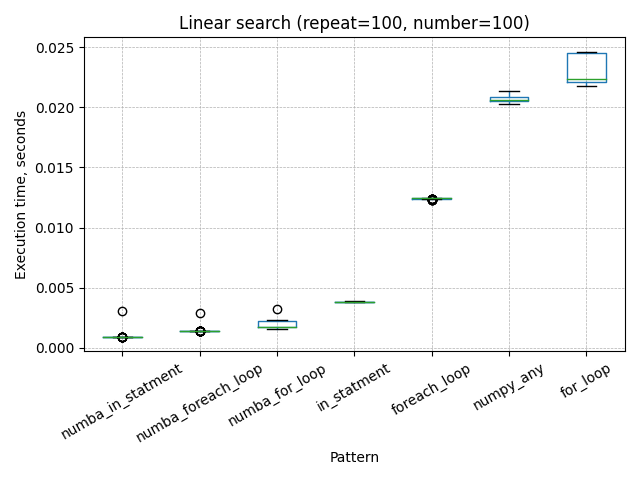
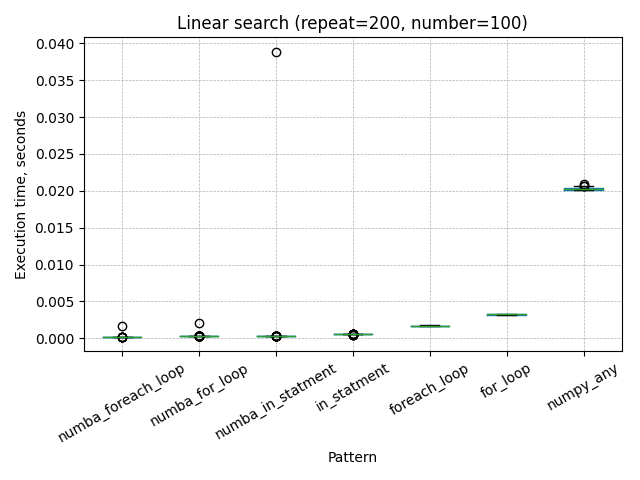
switch case and binary tree benchmark was added

diff --git a/benchmarks/python/switch_case.py b/benchmarks/python/switch_case.py
@@ -1,0 +1,97 @@
+import random
+from enum import Enum, IntEnum
+
+class Ticker(IntEnum):
+    AAPL:int = 143
+    MSFT = 257
+    GOOG = 95
+    AMZN = 91
+    TSLA = 157
+    NVDA = 176
+    TSM = 80
+    TCEHY = 41
+    META = 122
+
+def match_case(value: Ticker):
+    match value:
+      case Ticker.AAPL:
+        return '000'
+      case Ticker.MSFT:
+        return '001'
+      case Ticker.GOOG:
+        return '010'
+      case Ticker.AMZN:
+        return '011'
+      case Ticker.TSLA:
+        return '100'
+      case Ticker.NVDA:
+        return '101'
+      case Ticker.TSM:
+        return '110'
+      case Ticker.TCEHY:
+        return '111'
+      case Ticker.META:
+        return '1000'
+      case _:
+        return 'NA'
+
+def if_else(value: Ticker):
+    if value == Ticker.AAPL:
+        return '000'
+    elif value == Ticker.MSFT:
+        return '001'
+    elif value ==  Ticker.GOOG:
+        return '010'
+    elif value ==  Ticker.AMZN:
+        return '011'
+    elif value ==  Ticker.TSLA:
+        return '100'
+    elif value ==  Ticker.NVDA:
+        return '101'
+    elif value ==  Ticker.TSM:
+        return '110'
+    elif value ==  Ticker.TCEHY:
+        return '111'
+    elif value ==  Ticker.META:
+        return '1000'
+    else:
+        return 'NA'
+
+pre_dict = {
+    Ticker.AAPL: lambda: '000',
+    Ticker.MSFT: lambda: '001',
+    Ticker.GOOG: lambda: '010',
+    Ticker.AMZN: lambda: '011',
+    Ticker.TSLA: lambda: '100',
+    Ticker.NVDA: lambda: '101',
+    Ticker.TSM: lambda: '110',
+    Ticker.TCEHY: lambda: '111',
+    Ticker.META: lambda: '1000'
+}
+
+def dict_case(dictionary: dict, value: Ticker):
+    return dictionary.get(value, lambda: 'NA')()
+
+randomlist = random.sample(range(40, 200), 100)
+
+def func_a()->None:
+    for i in randomlist:
+        match_case(i)
+    
+def func_b()->None:
+    for i in randomlist:
+        if_else(i)
+
+def func_c()->None:
+    for i in randomlist:
+        dict_case(pre_dict, i)
+
+if __name__ == '__main__':
+    from myprofiler.myprofiler import do_profile
+    do_profile(
+        'Switch case', (
+            ('switch_case', 'func_a'),
+            ('if_else', 'func_b'),
+            ('dict', 'func_c'),
+        ),
+    )

diff --git a/benchmarks/python/binary_tree.py b/benchmarks/python/binary_tree.py
@@ -1,0 +1,61 @@
+import random
+from dataclasses import dataclass
+
+class Node:
+    __slots__ = ('data', 'leftChild', 'rightChild')
+
+    def __init__(self, data) -> None:
+        self.data = data
+        self.leftChild:Node = None
+        self.rightChild:Node = None
+
+    def insert(self, data) -> None:
+        if data < self.data:
+            if self.leftChild:
+                self.leftChild.insert(data)
+            else:
+                self.leftChild = Node(data)
+                return
+        else:
+            if self.rightChild:
+                self.rightChild.insert(data)
+            else:
+                self.rightChild = Node(data)
+                return
+
+    def search(self, val):
+        if val == self.data:
+            return self.data
+        elif val < self.data:
+            if self.leftChild:
+                return self.leftChild.search(val)
+            else:
+                return None
+        else:
+            if self.rightChild:
+                return self.rightChild.search(val)
+            else:
+                return None
+
+
+randomlist = random.sample(range(0, 9000), 1000)
+
+
+
+def func_a():
+    root = Node(4500)
+    for val in randomlist:
+        root.insert(val)
+
+    root.search(9000)
+
+
+if __name__ == '__main__':
+
+    from myprofiler.myprofiler import do_profile
+    do_profile(
+        'Binary tree', (
+            ('naive class', 'func_a'),
+        ),
+        number=100
+    )

diff --git a/benchmarks/python/myprofiler/myprofiler.py b/benchmarks/python/myprofiler/myprofiler.py
@@ -4,7 +4,7 @@ import matplotlib.pyplot as plt
 import pandas as pd
 from tabulate import tabulate
 
-def do_profile(description:str, funcs:tuple, repeat:int=100, number:int=1000):
+def do_profile(description:str, funcs:tuple, repeat:int=200, number:int=1000):
 
     df = pd.DataFrame()
     for name, func in funcs:

diff --git a/readme.md b/readme.md
@@ -12,7 +12,7 @@ Processor: AMD Ryzen 9 5950X 16-Core Processor
 
 ## Benchmarks
 
-### Sequence generation
+### Sequence generation [<kbd>&rarr;</kbd>](benchmarks/python/sequence_generation.py)
 
 Ways to generate sequences
 
@@ -25,7 +25,7 @@ Ways to generate sequences
 | list comprehension | 3.52e-03 | 1.40e-05 | 3.49e-03 | 3.50e-03 | 3.52e-03 | 3.54e-03 | 3.56e-03 |
 | list forloop       | 4.07e-03 | 1.51e-05 | 4.02e-03 | 4.05e-03 | 4.06e-03 | 4.09e-03 | 4.13e-03 |
 
-### Dataclass pattern
+### Dataclass pattern [<kbd>&rarr;</kbd>](benchmarks/python/dataclass.py)
 
 Storing a small amount of annotated data (aka structs)
 
@@ -38,7 +38,7 @@ Storing a small amount of annotated data (aka structs)
 | dataclass  | 1.69e-03 | 1.04e-05 | 1.66e-03 | 1.67e-03 | 1.69e-03 | 1.70e-03 | 1.71e-03 |
 | namedtuple | 2.32e-03 | 1.60e-05 | 2.30e-03 | 2.30e-03 | 2.31e-03 | 2.34e-03 | 2.36e-03 |
 
-### Decomposing functions
+### Decomposing functions [<kbd>&rarr;</kbd>](benchmarks/python/func_call.py)
 
 Splitting a function into smaller subfunctions
 
@@ -51,7 +51,7 @@ Splitting a function into smaller subfunctions
 | naive  | 9.52e-03 | 7.39e-05 | 9.45e-03 | 9.46e-03 | 9.50e-03 | 9.64e-03 | 1.00e-02 |
 | lambda | 1.02e-02 | 8.39e-05 | 9.86e-03 | 1.00e-02 | 1.02e-02 | 1.03e-02 | 1.04e-02 |
 
-### Caching import methods
+### Caching import methods [<kbd>&rarr;</kbd>](benchmarks/python/module_import.py)
 
 ![image](reports/module_imports.png)
 
@@ -60,7 +60,7 @@ Splitting a function into smaller subfunctions
 | direct   | 3.18e-03 | 1.71e-05 | 3.14e-03 | 3.15e-03 | 3.18e-03 | 3.21e-03 | 3.23e-03 |
 | indirect | 3.59e-03 | 4.69e-05 | 3.54e-03 | 3.55e-03 | 3.58e-03 | 3.68e-03 | 3.83e-03 |
 
-### Global variables
+### Global variables [<kbd>&rarr;</kbd>](benchmarks/python/global_var.py)
 
 ![image](reports/global_var.png)
 
@@ -69,7 +69,7 @@ Splitting a function into smaller subfunctions
 | write []  | 4.75e-05 | 5.36e-07 | 4.67e-05 | 4.68e-05 | 4.75e-05 | 4.86e-05 | 4.95e-05 |
 | append [] | 5.10e-05 | 9.58e-07 | 4.99e-05 | 5.01e-05 | 5.07e-05 | 5.25e-05 | 5.74e-05 |
 
-### Compound assignment operators
+### Compound assignment operators [<kbd>&rarr;</kbd>](benchmarks/python/compound_assignment_ops.py)
 
 ![image](reports/compound_operators.png)
 
@@ -78,7 +78,17 @@ Splitting a function into smaller subfunctions
 | naive        | 7.14e-03 | 1.85e-04 | 6.84e-03 | 6.86e-03 | 7.12e-03 | 7.40e-03 | 7.50e-03 |
 | compound_ops | 7.34e-03 | 1.55e-04 | 6.93e-03 | 7.00e-03 | 7.37e-03 | 7.55e-03 | 7.61e-03 |
 
-### Linear search
+### Switch case [<kbd>&rarr;</kbd>](benchmarks/python/switch_case.py)
+
+![image](reports/switch_case.png)
+
+|             |     mean |      std |      min |       5% |      50% |      95% |      max |
+|-------------|----------|----------|----------|----------|----------|----------|----------|
+| dict        | 9.91e-03 | 9.47e-05 | 9.75e-03 | 9.77e-03 | 9.90e-03 | 1.01e-02 | 1.03e-02 |
+| if_else     | 4.95e-02 | 6.41e-04 | 4.77e-02 | 4.79e-02 | 4.97e-02 | 5.01e-02 | 5.03e-02 |
+| switch_case | 4.97e-02 | 5.38e-04 | 4.84e-02 | 4.88e-02 | 4.98e-02 | 5.04e-02 | 5.06e-02 |
+
+### Linear search [<kbd>&rarr;</kbd>](benchmarks/python/linear_search.py)
 
 Runs through the elements of the input unsorted vector of int until finding the value being searched (successful search) or reaching the end of the vector (unsuccessful search).
 
@@ -93,3 +103,11 @@ Runs through the elements of the input unsorted vector of int until finding the 
 | foreach_loop       | 1.24e-02 | 3.55e-05 | 1.23e-02 | 1.23e-02 | 1.24e-02 | 1.25e-02 | 1.25e-02 |
 | numpy_any          | 2.07e-02 | 2.39e-04 | 2.03e-02 | 2.03e-02 | 2.06e-02 | 2.11e-02 | 2.13e-02 |
 | for_loop           | 2.33e-02 | 1.18e-03 | 2.18e-02 | 2.20e-02 | 2.24e-02 | 2.45e-02 | 2.46e-02 |
+
+### Binary tree [<kbd>&rarr;</kbd>](benchmarks/python/binary_tree.py)
+
+![image](reports/binary_tree.png)
+
+|             |     mean |      std |      min |       5% |      50% |      95% |      max |
+|-------------|----------|----------|----------|----------|----------|----------|----------|
+| naive class | 4.99e-02 | 4.36e-04 | 4.89e-02 | 4.93e-02 | 4.99e-02 | 5.08e-02 | 5.11e-02 |
